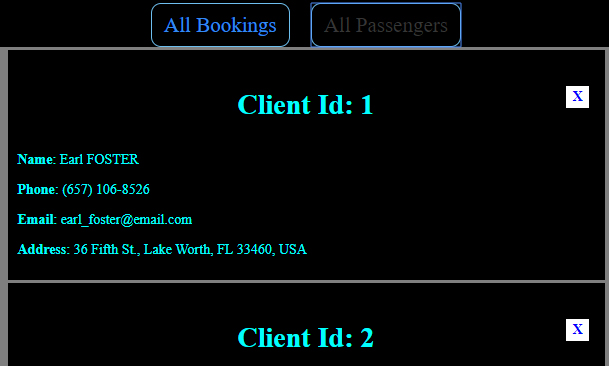
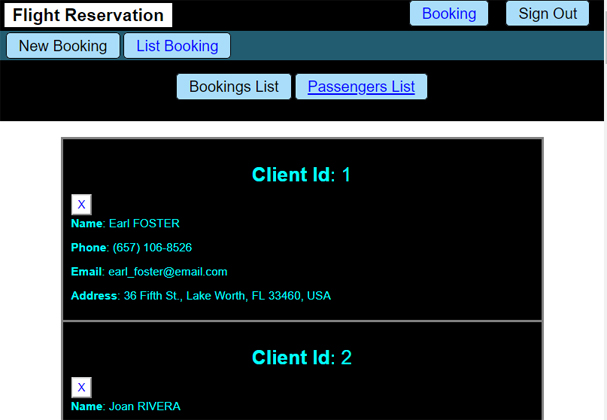
Done!

diff --git a/client/src/components/Header.js b/client/src/components/Header.js
@@ -8,8 +8,8 @@ class Header extends Component {
     if (this.props.authenticated) {
       return (
         <div>
-          <NavLink to="/signout" className="navLink" strict activeStyle={{ color: 'blue' }}>Sign Out</NavLink>
           <NavLink to="/mainMenu" className="navLink" strict activeStyle={{ color: 'blue' }}>Booking</NavLink>
+          <NavLink to="/signout" className="navLink" strict activeStyle={{ color: 'blue' }}>Sign Out</NavLink>
         </div>
       );
     } else {
@@ -25,8 +25,8 @@ class Header extends Component {
   render() {
     return (
       <div className="header" style={{ "backgroundColor": "black" }}>
-        <span style={{color:"blue", backgroundColor:"white", fontSize:"1.5em", padding: '0px 10px', fontWeight: "bold"}}>Flight Reservation</span>
-        
+        <span style={{ color: "black", backgroundColor: "white", fontSize: "1.5em", padding: '0px 10px', fontWeight: "bold" }}>Flight Reservation</span>
+
         {this.renderNavLinks()}
       </div>
     );

diff --git a/README.md b/README.md
@@ -41,6 +41,9 @@ Building a project based on an EER (Enhanced Entity-Relationship). The goal is t
 ### Add New Passenger
 ![alt text](assets/img/addPassenger.jpg)
 
+### Make a New Reservation
+![alt text](assets/img/newReservation.jpg)
+
 ---------------
 
 ## Execution
